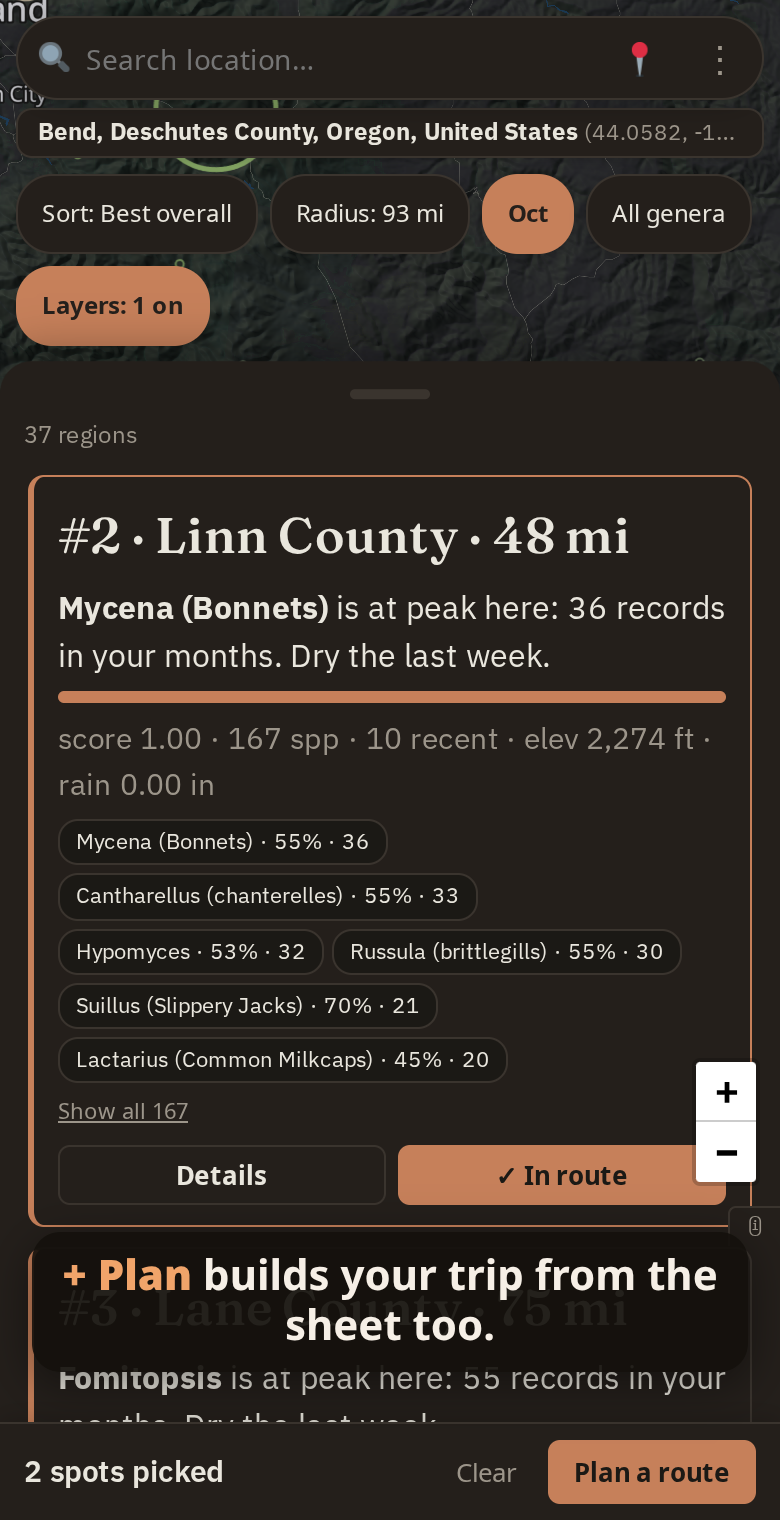
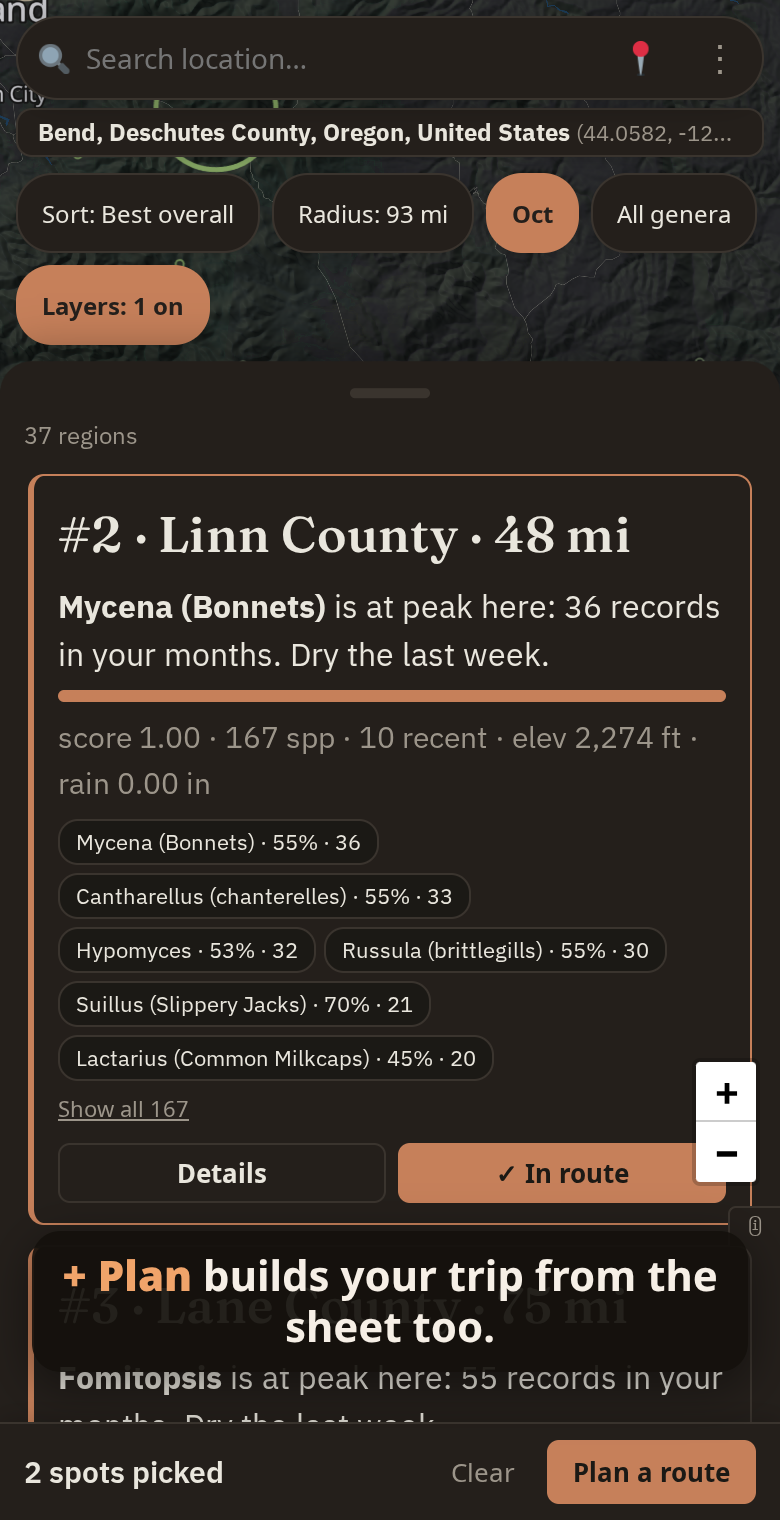
docs(tutorials): track-down recording and an Instagram output mode
- Record the track-down walkthrough now that the genus-scoped Trails
  tab works on prod (#433).
- `just tutorials --instagram` re-records walkthroughs (default:
  best-spot, track-down, mobile) as 1080x1920 H.264 Reels plus 4:5
  carousel and 9:16 Stories stills, into gitignored
  docs/tutorials/instagram/. Desktop walkthroughs use an 810x1440
  desktop-layout window, the mobile one the real phone layout, both at
  exactly 1080x1920 device pixels.
- Screencast frames only come at device resolution when the browser runs
  at that scale, so each tutorial launches its own browser with
  --force-device-scale-factor. This also makes the phone walkthrough's
  GIF genuinely 2x (780x1520) instead of CSS-pixel 390px frames.
- Carousel stills are taken at a real 4:5 viewport with the recording
  paused, and off-size frames from the resize are dropped.
- Guide: how to regenerate, what each output is for, and attribution
  notes (OSM map data, iNaturalist photo licences) for posting.

diff --git a/docs/tutorials/record.py b/docs/tutorials/record.py
@@ -28,19 +28,46 @@ from pathlib import Path
 
 # playwright comes from the inline script metadata above, not the project venv `just lint` checks.
 from playwright.sync_api import (  # ty: ignore[unresolved-import]
-    Browser,
     Locator,
     Page,
+    Playwright,
     sync_playwright,
 )
 from playwright.sync_api import TimeoutError as PlaywrightTimeoutError  # ty: ignore[unresolved-import]
 
 OUT_DIR = Path(__file__).resolve().parent
 IMG_DIR = OUT_DIR / "img"
+# `--instagram` output (gitignored - regenerated, and meant for posting, not the repo).
+INSTAGRAM_DIR = OUT_DIR / "instagram"
 DEFAULT_URL = "https://forayplanner.com/"
+INSTAGRAM_DEFAULT = ["best-spot", "track-down", "mobile"]
 
-DESKTOP = {"width": 1280, "height": 760}
-MOBILE = {"width": 390, "height": 760}
+
+@dataclass(frozen=True)
+class Profile:
+    """Viewport in CSS px, device scale factor, and whether to emulate a phone."""
+
+    viewport: dict[str, int]
+    scale: float
+    mobile: bool
+
+
+DESKTOP = Profile({"width": 1280, "height": 760}, 1, mobile=False)
+# 2x so the phone walkthrough stays sharp when shown larger.
+MOBILE = Profile({"width": 390, "height": 760}, 2, mobile=True)
+# Instagram Reels are 1080x1920 (9:16). The desktop layout needs > 780 CSS px, so 810x1440 at
+# 4/3; the phone layout at 405x720 x 8/3. Both land on exactly 1080x1920 device pixels.
+INSTAGRAM_DESKTOP = Profile({"width": 810, "height": 1440}, 1080 / 810, mobile=False)
+INSTAGRAM_MOBILE = Profile({"width": 405, "height": 720}, 1080 / 405, mobile=True)
+# Feed carousel stills are 1080x1350 (4:5): the same widths, shorter.
+CAROUSEL_VIEWPORTS = {False: {"width": 810, "height": 1012}, True: {"width": 405, "height": 506}}
+# (instagram, phone walkthrough) -> profile
+PROFILES = {
+    (False, False): DESKTOP,
+    (False, True): MOBILE,
+    (True, False): INSTAGRAM_DESKTOP,
+    (True, True): INSTAGRAM_MOBILE,
+}
 
 # Injected once per page: a caption bar pinned to the bottom and a cursor dot that follows
 # the (synthetic) mouse - headless Chromium draws no pointer of its own.
@@ -87,8 +114,13 @@ OVERLAY_JS = """
 class Tutorial:
     page: Page
     slug: str
-    mobile: bool = False
+    img_dir: Path = IMG_DIR
     on_start: Callable[[], None] | None = None
+    # Instagram mode: also save each step at this (4:5) viewport into carousel_dir, pausing the
+    # recording (`cast`) around the resize so it never shows in the Reel.
+    carousel_viewport: dict[str, int] | None = None
+    carousel_dir: Path | None = None
+    cast: Screencast | None = None
     started: bool = False
     steps: list[tuple[str, str]] = field(default_factory=list)
 
@@ -108,9 +140,26 @@ class Tutorial:
         if shot:
             name = f"{self.slug}-{len(self.steps) + 1:02d}-{shot}.png"
             # The cursor dot helps the GIF but would cover text in a still.
-            self.page.screenshot(path=IMG_DIR / name, type="png", style="#tut-cursor { display: none; }")
+            self.page.screenshot(path=self.img_dir / name, type="png", style="#tut-cursor { display: none; }")
             self.steps.append((name, html))
+            self._carousel_still(name)
         time.sleep(hold)
+
+    def _carousel_still(self, name: str) -> None:
+        viewport, carousel_dir = self.carousel_viewport, self.carousel_dir
+        if viewport is None or carousel_dir is None:
+            return
+        if self.cast:
+            self.cast.paused = True
+        original = self.page.viewport_size
+        self.page.set_viewport_size({"width": viewport["width"], "height": viewport["height"]})
+        time.sleep(0.8)  # Leaflet re-fits the map on resize
+        self.page.screenshot(path=carousel_dir / name, type="png", style="#tut-cursor { display: none; }")
+        if original:
+            self.page.set_viewport_size(original)
+        time.sleep(0.8)
+        if self.cast:
+            self.cast.paused = False
 
     def point(self, target: Locator) -> None:
         """Glide the visible cursor onto `target` (tap targets on mobile just jump)."""
@@ -226,7 +275,8 @@ def visible_cluster(page: Page) -> Locator | None:
     badges = page.locator(".precise-cluster-icon")
     for index in range(badges.count()):
         box = badges.nth(index).bounding_box()
-        if box and (panel is None or box["x"] > panel["x"] + panel["width"] + 20) and 180 < box["y"] < 560:
+        height = (page.viewport_size or {"height": 760})["height"]
+        if box and (panel is None or box["x"] > panel["x"] + panel["width"] + 20) and 180 < box["y"] < height - 200:
             return badges.nth(index)
     return None
 
@@ -519,27 +569,51 @@ class Screencast:
     still stretches (caption holds) nearly free.
     """
 
-    def __init__(self, page: Page, frame_dir: Path) -> None:
+    def __init__(self, page: Page, frame_dir: Path, profile: Profile) -> None:
         self.frame_dir = frame_dir
+        self.profile = profile
+        self.frame_size = (
+            round(profile.viewport["width"] * profile.scale),
+            round(profile.viewport["height"] * profile.scale),
+        )
         self.frames: list[tuple[float, Path]] = []
+        # While set, frames are acked but dropped: the last kept frame holds over the gap.
+        self.paused = False
         self.session = page.context.new_cdp_session(page)
         self.session.on("Page.screencastFrame", self._on_frame)
         self.stopped_at = 0.0
 
     def _on_frame(self, event: dict) -> None:
+        data = base64.b64decode(event["data"])
+        # PNG IHDR: width/height are the big-endian uint32s at bytes 16-24. A frame rendered
+        # mid-resize (carousel still) can land after unpausing; anything off-size is dropped.
+        size = (int.from_bytes(data[16:20], "big"), int.from_bytes(data[20:24], "big"))
+        if self.paused or size != self.frame_size:
+            self.session.send("Page.screencastFrameAck", {"sessionId": event["sessionId"]})
+            return
         path = self.frame_dir / f"{len(self.frames):05d}.png"
-        path.write_bytes(base64.b64decode(event["data"]))
+        path.write_bytes(data)
         self.frames.append((event["metadata"]["timestamp"], path))
         self.session.send("Page.screencastFrameAck", {"sessionId": event["sessionId"]})
 
     def start(self) -> None:
-        self.session.send("Page.startScreencast", {"format": "png", "everyNthFrame": 1})
+        # Frames only come at device resolution when the browser itself runs at that scale
+        # (--force-device-scale-factor, see record()); max* just has to not cap them.
+        self.session.send(
+            "Page.startScreencast",
+            {
+                "format": "png",
+                "everyNthFrame": 1,
+                "maxWidth": self.frame_size[0],
+                "maxHeight": self.frame_size[1],
+            },
+        )
 
     def stop(self) -> None:
         self.stopped_at = time.time()
         self.session.send("Page.stopScreencast")
 
-    def to_gif(self, target: Path) -> None:
+    def _concat_list(self) -> Path:
         concat = self.frame_dir / "frames.txt"
         lines = []
         for index, (stamp, path) in enumerate(self.frames):
@@ -547,6 +621,17 @@ class Screencast:
             lines += [f"file '{path.name}'", f"duration {max(following - stamp, 0.01):.3f}"]
         lines.append(f"file '{self.frames[-1][1].name}'")
         concat.write_text("\n".join(lines) + "\n")
+        return concat
+
+    def to_mp4(self, target: Path) -> None:
+        """H.264 1080x1920 at 30 fps, the shape and codec Instagram Reels expect."""
+        command = ["ffmpeg", "-y", "-loglevel", "error", "-f", "concat", "-i", str(self._concat_list())]
+        encode = ["-vf", "fps=30,scale=1080:1920:flags=lanczos,format=yuv420p", "-c:v", "libx264"]
+        encode += ["-preset", "slow", "-crf", "18", "-profile:v", "high", "-movflags", "+faststart", "-an"]
+        subprocess.run([*command, *encode, str(target)], check=True)
+
+    def to_gif(self, target: Path) -> None:
+        concat = self._concat_list()
         filters = (
             # Native resolution (no downscale keeps UI text crisp), 15 fps, full 256-colour palette.
             "fps=15,mpdecimate=hi=1:lo=1:frac=1,split[a][b];"
@@ -556,15 +641,25 @@ class Screencast:
         subprocess.run([*command, "-vf", filters, "-fps_mode", "vfr", str(target)], check=True)
 
 
-def record(browser: Browser, url: str, slug: str) -> Tutorial:
+def record(playwright: Playwright, url: str, slug: str, *, headed: bool, instagram: bool) -> Tutorial:
     run, is_mobile = TUTORIALS[slug]
-    viewport = MOBILE if is_mobile else DESKTOP
+    profile = PROFILES[instagram, is_mobile]
+    out_dir = INSTAGRAM_DIR if instagram else OUT_DIR
+    img_dir = INSTAGRAM_DIR / "stills" if instagram else IMG_DIR
+    img_dir.mkdir(parents=True, exist_ok=True)
+    for stale in img_dir.glob(f"{slug}-*.*"):
+        stale.unlink()
+    # One browser per tutorial: the scale flag is browser-wide, and without it the screencast
+    # hands back CSS-pixel frames however high the context's device_scale_factor is.
+    browser = playwright.chromium.launch(
+        headless=not headed,
+        args=["--use-gl=angle", f"--force-device-scale-factor={profile.scale}"],
+    )
     context = browser.new_context(
-        viewport=viewport,
-        # The phone-width tutorial records at 2x so its frames stay sharp when shown larger.
-        device_scale_factor=2 if is_mobile else 1,
-        is_mobile=is_mobile,
-        has_touch=is_mobile,
+        viewport=profile.viewport,
+        device_scale_factor=profile.scale,
+        is_mobile=profile.mobile,
+        has_touch=profile.mobile,
         color_scheme="dark",
         service_workers="block",
     )
@@ -574,8 +669,12 @@ def record(browser: Browser, url: str, slug: str) -> Tutorial:
     if slug != "getting-started":
         set_home_quietly(page)
     with tempfile.TemporaryDirectory() as frame_dir:
-        cast = Screencast(page, Path(frame_dir))
-        tut = Tutorial(page=page, slug=slug, on_start=cast.start)
+        cast = Screencast(page, Path(frame_dir), profile)
+        tut = Tutorial(page=page, slug=slug, img_dir=img_dir, on_start=cast.start, cast=cast)
+        if instagram:
+            tut.carousel_viewport = CAROUSEL_VIEWPORTS[is_mobile]
+            tut.carousel_dir = INSTAGRAM_DIR / "carousel-raw"
+            tut.carousel_dir.mkdir(parents=True, exist_ok=True)
         try:
             run(tut)
         except Exception:
@@ -585,8 +684,28 @@ def record(browser: Browser, url: str, slug: str) -> Tutorial:
             raise
         cast.stop()
         context.close()
-        cast.to_gif(OUT_DIR / f"{slug}.gif")
+        browser.close()
+        if instagram:
+            cast.to_mp4(out_dir / f"{slug}.mp4")
+            to_carousel(tut)
+        else:
+            cast.to_gif(out_dir / f"{slug}.gif")
     return tut
+
+
+def to_carousel(tut: Tutorial) -> None:
+    """Each step's 4:5 still as a 1080x1350 JPEG, ready for a feed carousel post."""
+    carousel = INSTAGRAM_DIR / "carousel"
+    carousel.mkdir(parents=True, exist_ok=True)
+    for stale in carousel.glob(f"{tut.slug}-*.*"):
+        stale.unlink()
+    assert tut.carousel_dir is not None
+    for name, _caption in tut.steps:
+        source = tut.carousel_dir / name
+        target = carousel / Path(name).with_suffix(".jpg").name
+        command = ["ffmpeg", "-y", "-loglevel", "error", "-i", str(source), "-vf", "scale=1080:1350:flags=lanczos"]
+        subprocess.run([*command, "-q:v", "2", str(target)], check=True)
+        source.unlink()
 
 
 def set_home_quietly(page: Page) -> None:
@@ -610,22 +729,27 @@ def main() -> None:
     parser.add_argument("slugs", nargs="*", help=f"tutorials to record (default: all of {', '.join(TUTORIALS)})")
     parser.add_argument("--url", default=DEFAULT_URL)
     parser.add_argument("--headed", action="store_true")
+    parser.add_argument(
+        "--instagram",
+        action="store_true",
+        help=f"record 1080x1920 MP4 Reels + 4:5 carousel stills into {INSTAGRAM_DIR.name}/ "
+        f"(default tutorials: {', '.join(INSTAGRAM_DEFAULT)})",
+    )
     args = parser.parse_args()
     if shutil.which("ffmpeg") is None:
         raise SystemExit("ffmpeg is required")
-    IMG_DIR.mkdir(exist_ok=True)
-    slugs = args.slugs or list(TUTORIALS)
+    slugs = args.slugs or (INSTAGRAM_DEFAULT if args.instagram else list(TUTORIALS))
     unknown = sorted(set(slugs) - set(TUTORIALS))
     if unknown:
         parser.error(f"unknown tutorial(s): {', '.join(unknown)}")
     with sync_playwright() as playwright:
-        browser = playwright.chromium.launch(headless=not args.headed, args=["--use-gl=angle"])
         for slug in slugs:
-            for stale in IMG_DIR.glob(f"{slug}-*.*"):
-                stale.unlink()
-            tut = record(browser, args.url, slug)
-            print(f"{slug}: {len(tut.steps)} screenshots, {OUT_DIR / (slug + '.gif')}")
-        browser.close()
+            tut = record(playwright, args.url, slug, headed=args.headed, instagram=args.instagram)
+            output = INSTAGRAM_DIR / f"{slug}.mp4" if args.instagram else OUT_DIR / f"{slug}.gif"
+            print(f"{slug}: {len(tut.steps)} screenshots, {output}")
+    raw = INSTAGRAM_DIR / "carousel-raw"
+    if raw.is_dir() and not any(raw.iterdir()):
+        raw.rmdir()
 
 
 if __name__ == "__main__":

diff --git a/docs/tutorials/README.md b/docs/tutorials/README.md
@@ -288,3 +288,31 @@ just tutorials plan-a-trip     # just one
 ```
 
 It needs `ffmpeg`. Captions are part of the script, so edit them there.
+
+### Instagram versions
+
+`--instagram` re-records walkthroughs as ready-to-post Instagram media in
+`docs/tutorials/instagram/` (gitignored, since it's regenerated on demand and meant for
+posting, not the repo):
+
+```bash
+just tutorials --instagram              # best-spot, track-down, mobile
+just tutorials --instagram plan-a-trip  # any other walkthrough
+```
+
+| Output | Use it for |
+|---|---|
+| `<name>.mp4` | **Reels**: 1080x1920 (9:16), H.264, 30 fps, silent. Add music or a voiceover in the Instagram app. |
+| `carousel/<name>-NN-*.jpg` | **Feed carousel**: one 1080x1350 (4:5) still per step, in order. |
+| `stills/<name>-NN-*.png` | **Stories**: the same steps at 1080x1920. |
+
+Desktop walkthroughs are recorded in the desktop layout on a tall 810x1440 window; `mobile`
+uses the real phone layout. Both are rendered at exactly 1080x1920 device pixels, not upscaled.
+
+Before posting publicly:
+
+- **Map attribution.** The basemap is OpenStreetMap data via Protomaps. The in-map credit is
+  tiny at phone size, so put "Map data © OpenStreetMap contributors" in the post caption.
+- **iNaturalist photos and records.** Photos show their photographer's credit and are often
+  licensed CC BY-NC (non-commercial). Fine for a non-commercial post with the credit visible;
+  if the account promotes anything commercial, use a walkthrough without the Photos step.
